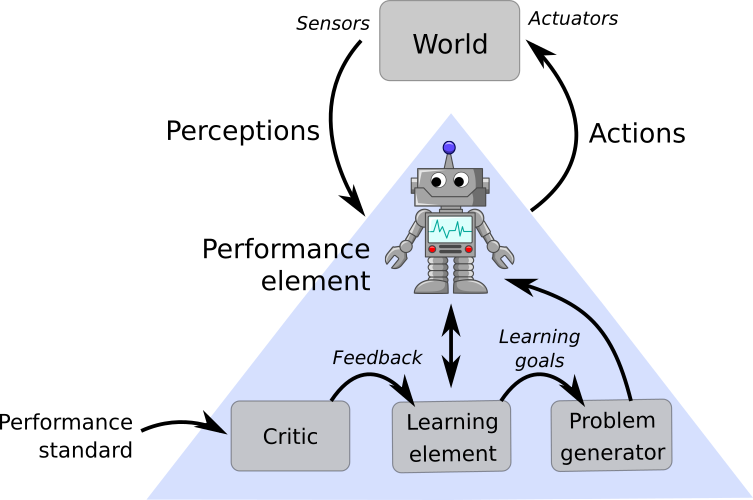
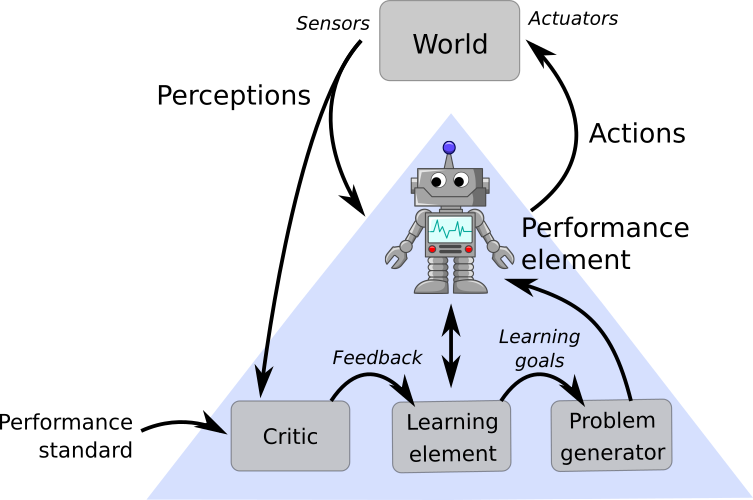
Update documentation

diff --git a/searchindex.js b/searchindex.js
@@ -1,1 +1,1 @@
-Search.setIndex({docnames:["ailibraries","aitools","bibliography","blockdiag","concepts","content","exercises","intelligent_agent","intro","machinelearninglibraries","manifestation","notebooks"],envversion:{"sphinx.domains.c":1,"sphinx.domains.changeset":1,"sphinx.domains.citation":1,"sphinx.domains.cpp":1,"sphinx.domains.index":1,"sphinx.domains.javascript":1,"sphinx.domains.math":2,"sphinx.domains.python":1,"sphinx.domains.rst":1,"sphinx.domains.std":1,sphinx:56},filenames:["ailibraries.md","aitools.md","bibliography.md","blockdiag.md","concepts.md","content.md","exercises.md","intelligent_agent.md","intro.md","machinelearninglibraries.md","manifestation.md","notebooks.ipynb"],objects:{},objnames:{},objtypes:{},terms:{"20th":4,"300px":[],"3rd":8,"500px":[],"\u00f6lksdfl\u00f6kasjsdlk":[],"\u00f6lksdlfk":[],"\u1e3fai":4,"break":4,"case":[3,4],"class":4,"default":[],"ensyclop\u00e6dia":4,"function":[3,4,10],"g\u00f6del":4,"import":[3,4,11],"k\u00e4yp\u00e4hoitosuositukset":3,"khw\u0101rizm\u012b":4,"lkjsdfkjsdl\u00f6kjs\u00f6klj":[],"long":4,"mit\u00e4":5,"new":[2,4],"noa\u1e25":[2,4],"public":2,"s\u00f6derj\u00e4rden":10,"short":[],"skljas\u00f6dlkj":[],"super":4,"t\u00e4h\u00e4n":5,"t\u00e4ll\u00e4":5,"t\u00e4llaisella":5,"t\u00e4m\u00e4":5,"teksti\u00e4":5,"true":[3,10],"try":[3,4],"v\u00e4h\u00e4n":5,"viel\u00e4":5,"while":4,AND:4,But:11,For:[4,10,11],GPS:[4,10],One:[3,4],The:[2,3,4,6],There:[4,8,11],These:4,Use:[5,8],a_1:5,a_2:5,aaron:[2,4,8],abil:4,abl:[3,4,8],about:[4,11],abov:3,acceler:4,accept:[],access:4,accord:[2,4],achiev:[4,10],acquir:10,act:4,action:[2,3,4,10],activ:[1,4,10],actual:4,actuat:4,acycl:3,ada:4,add:[],add_:11,addit:[3,4],afasia:3,affect:4,after:[4,8],again:[],agent:[1,5],agre:4,air:3,alan:4,alchemi:4,algorithm:[3,4,8,10],align:[5,11],all:[3,4,10],allow:4,alpha:3,alreadi:[4,10],also:[3,4,10,11],alwai:[2,3,4],amount:[4,10],amp:10,analyt:4,analyz:10,ancient:4,ani:4,anim:4,ann:4,anoth:[],answer:4,appar:10,appli:[4,10],applic:[3,4,8],approach:[2,3,4,8],arbitrari:4,area:4,argument:3,aristotel:3,aristotl:[3,4],arrai:11,arrow:3,artifact:4,artifici:[2,3,4,8,10],artitifici:4,asdf:[],asf:[],asia:5,ask:4,assess:4,associ:4,attribut:3,auditori:[],australia:[],autom:4,automat:10,autonom:4,avail:[4,10],avoid:4,awai:4,awkward:3,axes:11,axi:3,b_1:5,b_2:5,babbag:4,back:2,backward:3,balanc:10,base:3,basic:[2,4,8],batteri:10,bayesian:8,beauti:5,becaus:[3,4,10],been:[2,4,10],begin:[3,4,5,11],behalf:3,behav:4,behavior:4,behaviour:4,behind:4,being:4,beings:4,belief:[3,4],below:10,benefit:4,bengio:[2,4,8],best:4,between:[3,4],bib:[],bibliographi:[],bibtex:[],bigger:10,bird:3,blade:4,block:5,blockdiag:[],blokkia:5,book:[4,11],booklet:8,boost:4,both:[3,4],box:[],brain:4,breadth:3,brian:[],brief:[2,4],bring:4,brisban:[],britannica:4,broad:[5,8],bronz:4,brought:4,build:[3,4],built:[],bulli:10,c_1:5,c_2:5,calif:[],call:[3,4],cambridg:[],camera:[4,10],can:[3,4,10,11],capabl:4,capac:4,caption:[],car:[3,4],care:[3,4],carla:[3,10],carri:[3,4],categori:[5,8,10],caus:3,cbow:8,cell:[],center:3,centuri:4,certain:[3,4,10],chain:3,challeng:[5,8],chang:4,channel:10,characterist:4,charg:10,charl:4,check:11,chemistri:4,christoph:[],circul:3,cite:[],citi:4,claim:4,classif:10,classifi:10,clean:10,clear:[],cliff:[],climat:4,climb:3,clip:10,close:4,cluster:10,cmap:[3,11],code:6,cognit:[4,10],cold:11,collect:[5,8],collis:[4,10],color:[3,11],com:[2,4,5,10],combin:4,combinatori:3,comfreak:10,command:[],commerci:2,common:[3,4],commonli:4,commonmark:[],commun:4,compar:10,complet:[3,4,8],complex:[3,4,10],compon:4,compos:4,comput:[2,3,4,5,8],con:3,conceal:4,concept:[3,5,8],conclud:4,conclus:3,condit:3,confer:4,connect:[3,4],consequ:4,consid:4,consist:[3,4,10],construct:[4,8,10],consum:4,contain:[3,6,8,10],contemporari:4,content:[],continu:4,contrast:4,control:[4,10],conveni:4,convers:4,coolwarm:11,copeland:4,copi:4,corpor:4,correct:[3,4],cortex:[],could:[3,4,10],cours:8,courvil:[2,4,8],cover:[1,4],creat:[3,4,11],creation:4,criteria:4,critic:4,cross:4,crow:3,current:[3,4,10],custom_lin:11,cycl:3,cycler:11,cyclic:3,d_2:5,dag:3,dai:4,daniel:3,dark:[3,4,10],dartmouth:4,data:[3,4,8,10,11],dead:[4,10],deal:[4,10],decid:4,decis:[3,4,5,8],deckard:4,deep:[2,3,4,8],defin:[3,4,8],definit:[],delta:4,demand:4,demonstr:4,denser:10,depend:[],depth:3,describ:[3,4],deserv:10,desir:4,destin:4,detail:[2,4],deu:[2,4],develop:[8,10],diagnos:3,diagnosi:3,diagnost:3,diagram:5,dict:3,did:4,died:4,differ:[3,4,10],difficult:[3,4],difficulti:3,digit:4,digitalis:4,direct:[3,4],directli:[],diret:[],disconnect:3,discov:4,discuss:[],diseas:3,displai:4,distanc:4,divid:4,dmin:3,doc:[],docid:[2,4],document:11,doe:[3,4,10],doesn:[],doi:[2,4],dollar:11,domain:2,domian:[],doubl:3,download:2,draw:3,draw_networkx_edg:3,draw_networkx_nod:3,dream:4,drive:[3,4],driver:10,due:10,dure:4,e_2:5,each:[3,4,10],earli:4,earth:4,ebook:[2,4],ebookcentr:[2,4],ecosystem:[],edg:3,edit:[2,4,8],effect:4,effici:3,elect:5,electr:4,element:4,emb:11,embed:[4,8],emerg:4,enabl:4,encod:3,end:[3,4,5,11],endow:4,energi:10,engin:[3,4],englewood:[],entir:[],environ:[4,10],eqn:[],eqnarrai:3,equal:3,equat:5,escap:11,establish:4,estim:[4,10],etc:11,ether:4,ethic:[5,8],euclid:4,euler2:[],euler3:[],euler:5,european:10,evalut:10,even:4,ever:4,everydai:10,everyon:4,everyth:4,evid:10,evolv:[2,4],exactli:4,exampl:[1,3,4,6,10,11],exercis:6,exhaust:3,exist:6,expect:4,expediti:4,experi:4,expert:[3,8,10],explain:[4,8],explan:5,explicit:4,explos:3,express:3,extend:4,extens:[],extraterresti:4,eye:3,face:[3,4],fact:3,fake:[],falco:10,fall:8,fals:3,far:4,fast:4,fdgdfgdf:4,feel:10,few:6,fiction:4,field:[3,4,8,10],fig:[3,4,10,11],fig_soderfjarden_classifi:[],fig_soderfjarden_imag:[],fig_soderjrarden_classifi:[],fig_soderjrarden_imag:[],fight:4,figsiz:[3,11],figur:[3,10],file:2,find:[3,4,10],first:[3,4],fit:[3,4],five:[],fix:11,flavor:[],florenc:[2,4],fluid:4,follow:[3,4],font_weight:3,footnot:5,forc:4,forest:[3,10],forget:4,form:4,formal:4,formula:5,forward:3,found:4,foundat:[],four:4,frac:4,frame:3,framework:[3,4],franci:[2,4],francisco:[],frankenstein:4,frankestein:4,free:2,frequent:4,from:[2,3,4,10,11],from_pixabai:[],front:4,frontier:[],fslkfj:[],fuel:4,fundament:[4,5,8],further:4,gain:4,game:[5,8],gather:[3,5],gener:4,genet:[2,4],get:[],get_node_attribut:3,giant:4,given:4,god:4,good:[3,4],goodfellow:[2,4,8],googl:5,gram:8,graph:1,grass:10,great:4,greater:3,greedi:3,greek:[3,4],group:[2,4,8],guid:11,guidelin:3,had:[4,10],hai:10,hall:[],hand:3,happen:4,har17:[2,4],harari:[2,4],harari_homo_2017:[],hard:4,harder:[],hardwar:4,harlow:[2,4],harrison:3,has:[3,4,10],have:[2,3,4,10],hdhpk14:[],hea18:[2,4,8],heart:4,heaton:[2,4],heaton_ian_2018:[],heer:[],help:4,here:[4,11],heurist:3,hidden:[],hide:[],high:[3,10],higher:[4,10],highlight:[],hill:3,him:4,his:4,histor:[],histori:2,holdgraf:[],holdgraf_evidence_2014:[],homo:[2,4],hot:11,hour:8,how:4,html:11,http:[2,4,5,10],huge:10,huma:[],human:[3,4,10],humanli:4,humanoid:4,hunt:4,hypothesi:3,ian:[2,4,8],icat1100:8,ichor:4,idea:4,ident:5,imag:[3,4,10,11],implement:[1,4,5,6,10],imposs:3,improv:4,includ:[4,10,11],increas:3,independ:4,indistinguish:4,individu:2,infer:[1,3,4,5,8],influenc:4,inform:[4,10,11],ingredi:[],init:[],initi:[4,6],inlin:5,input:4,insert:[],insid:[],instead:[4,10],instructor:8,intellectu:4,intellig:[1,2,5,8,10],intepret:[],interact:[4,11],interest:[4,10],intern:4,internat:[2,4],interpret:4,intro:[],introduc:[1,6],introduct:[3,5,6],involv:3,ion:11,ipynb:[],ipython3:[],isbn:[2,4],isol:3,its:[3,4,10],itself:4,jaha:5,jatkuu:5,jeff:[2,4],jksklfj:[],joint:10,joka:5,jpg:[],june:[2,4],jupyt:[6,8,11],jupytext:[],kaava:[],kaavagath:[],kaavat:5,kaavoja:5,kan:5,kaufmann:[],keep:[10,11],kei:[3,5],kera:8,kernel:[],kevin:[2,4],kind:[3,4],kirjoitetaan:5,knight:[],know:[3,4],knowledg:[4,8],known:3,kokeillaan:5,kurt:4,kuva:5,la_:11,label:[],lainauksella:5,laittaa:5,land:10,lane:4,languag:[3,4,5,8],larg:3,larger:10,last:4,later:3,law:4,lawn:10,lead:4,learn:[1,2,5],learnin:[2,4],least:4,lectur:8,left:4,legend:11,length:3,less:[],let:4,level:[4,10],lib:[2,4],librari:5,life:4,ligenc:[2,4],light:4,like:[3,4,10],line2d:11,line:[3,4,6,11],linspac:11,list:[3,8],locat:[4,10],logic:[4,8],logspac:11,london:[2,4],look:10,loop:3,loppui:5,loss:4,lot:[3,4,11],lovelac:4,low:3,luontoportti:3,machien:4,machin:[1,2,3,4,5,8,10],machineri:[2,4],mackworth:[],made:[3,4],magic:4,mai:[3,4,10],make:[3,4,5,8,10,11],man:4,manag:8,mani:[2,3,4,10],manifest:[4,5,8],map:[4,10],markedli:[],markov:3,markup:[],matematician:4,materi:[],math:11,mathemat:[3,4,5,8],mathrm:3,mathtt:[],matplotlib:[3,11],maxim:4,mbox:[4,11],mean:[1,4,11],meaning:4,meaningfulli:4,measur:[4,10],mechan:4,media:4,medic:3,medium:11,meet:4,memori:4,metadata:[],method:10,micro:4,mighti:4,mimic:[4,10],mimick:4,mind:[2,4],mine:[5,8],minim:4,mit:8,model:[3,10],modern:[2,4,8],monel:5,monikap:10,monster:4,more:[4,10,11],moreoev:[],most:[3,5,6],motion:4,movement_observ:4,movi:4,much:[3,10],multigraph:[],music:4,must:[],mydirectivenam:[],myth:[],mythic:4,mytholog:4,name:4,natur:[4,5,8],nausea:3,navig:10,nbsp:[],ncenter:3,necessari:4,necessarili:4,need:[1,3,4,10],neg:4,neither:4,net:[],network:[3,4],networkx:3,neural:[3,4],neuron:4,neurosci:[],newton:4,next:4,nlp:[4,8],node:3,node_color:3,node_s:3,nodelist:3,normal:[3,10],norvig:[2,4,8],notat:3,note:[5,8],notebook:6,now:10,number:[3,4],numpi:11,numref:[],nyt:5,object:3,observ:[3,4],obstacl:10,ockham:4,oclc:[2,4],off:3,often:[3,4],oikea:5,old:4,ollenkaan:5,onc:[],one:[3,4,5],onli:[3,4,6],oper:[4,10],opinion:4,opportun:[5,8],opposit:3,optim:[4,10],optimis:3,option:4,orang:[3,8],org:[2,4],orient:3,origin:10,osoitteessa:5,other:[3,4],otherwis:[3,4],our:4,out:[3,4,11],outcom:4,outdoor:4,output:[],over:4,overal:4,own:4,page:[],paliotta:3,panda:[],paralysi:3,part:[3,8],partial:4,partli:4,paslei:[],pass:4,past:4,path:[3,4,10],pattern:3,patterson:[],pearl:[],pearson:[2,4,8],pecept:4,perceiv:[3,4],percept:[3,4,10],perceptron:4,perform:[4,10],perhap:10,person:[3,4,10],peter:[2,4,8],phd:4,philosoph:[3,4],physic:[4,10],pixabai:[2,10],pixel:10,plan:[1,3,4,10],planet:4,plausibl:[],plenti:[3,4],plot:11,plt:[3,11],point:[],polygon:10,pool:[],pos:3,posit:[3,10],possibl:[3,10],post:11,potenti:4,power:[3,4],practic:3,pre:[],predict:[3,4],premis:3,prentic:[],preprocss:[],present:4,press:8,pretti:[],print:5,probabilist:[],probabl:[3,4,8],problem:[1,3,4,6,8],proce:[],process:[4,5,8],produc:[3,4],program:[1,2,3,4,6,8],project:[4,8],prop_cycl:11,properli:[],properti:3,propos:[3,4],proposit:[3,8],proquest:[2,4],proven:4,provid:[3,4,10],proxim:10,publicdomainfil:[],purpos:[4,8,10],pursu:4,pyplot:[3,11],python:[3,5],pythonprogram:[],queri:3,question:4,quit:[4,10],quizz:8,rachel:4,radar:[4,10],radic:4,ramsai:[],randn:11,random:11,random_geometric_graph:3,random_tre:3,rang:11,rapidli:4,rare:3,ration:[3,4],rcparam:11,reach:4,react:4,reactiv:4,real:[3,4],realiz:4,realli:4,reason:[4,5],recent:4,reckon:10,recogn:[3,4,8],recognit:3,recommend:2,record:3,reds_r:3,reduc:[3,4],ref:[],refer:[],referenc:2,region:10,regular:[],reinforc:3,rel:[],relat:[3,4,8],relationship:3,relev:6,remov:4,render:[],repeat:10,replic:4,repres:[3,10],represent:8,reproduc:11,requir:[2,4,10],research:4,resolut:3,resolv:3,resourc:[3,4],rest:10,result:10,rev:[],review:8,revis:[2,4],rgb:10,right:[4,10],rightarrow:3,risk:10,rivil:5,rn14:[2,4,8],road:4,robert:[],robot:[4,8],robot_woman:[],robust:[],rolenam:[],routin:10,rule:[3,4],run:[],runner:4,russel:[2,4,8],russell_artificial_2014:[],s10710:[2,4],saf:[],said:[3,4],same:[4,10],sampl:11,san:[],sapien:4,satellit:10,scene:4,scienc:4,scientif:[],scientist:4,scikit:8,sculptur:4,sdf:[],seagul:3,search:[4,8,10],second:4,section:[1,3],see:[4,11],seed:11,seem:[4,10],seemingli:4,seen:[3,10],select:[2,4],self:3,semant:[3,4],semest:8,sens:4,sensor:[4,10],sentinel:10,separ:4,sequenc:4,seriou:4,serious:10,serv:[],set:3,sever:1,show:3,shown:[3,10],side:[3,4],sign:11,signal:[],similar:[4,10],simpl:[1,3,5,10],simplest:3,simpli:[3,4],simul:10,sinc:4,single_source_shortest_path_length:3,situat:4,sivulla:5,size:3,skip:8,sldkjflksd:[],slight:[],slower:4,small:[],smaller:4,social:4,societ:8,societi:4,softwar:[4,8],soil:10,solut:[3,4,8,10],solv:[1,3,4,6,8],some:[3,4,5,11],someon:[],someth:4,sometim:4,somewhat:4,sophist:[4,10],sophisticaion:[],space:4,span:[],speak:3,speci:[3,4],specif:[3,8],specul:4,speed:[4,10],spend:4,sphinx:[],spoken:4,spyder:8,stackabus:[],stai:4,stand:[],start:[4,10],state:[2,4,10,11],statement:3,station:10,statist:4,steer:[4,10],step:4,still:[3,4],stop:[4,10],store:3,stori:4,strategi:8,street:4,strive:4,stroke:3,structur:[3,4,8],stuart:[2,4,8],student:[6,8],studi:4,subplot:11,suggest:8,superior:4,superpow:3,supervis:10,support:3,suppos:3,sure:11,swallow:3,swim:3,syllog:3,symbol:4,symmetr:4,symptom:3,synonym:4,syntax:[],synthes:4,system:[3,4,8],tabl:[3,10],tactic:10,tag:[],take:[4,10],taken:[4,10],talo:4,target:4,task:[4,10],taxi:4,taylor:[2,4],tbl:[],techniqu:8,technolog:4,teksti:5,tend:[],term:4,test:4,tex:11,text:[4,5,8],than:[4,10],thei:[2,3,4,10],them:4,theme:5,theoret:4,theori:[1,5,8],therefor:[3,4,10],thi:[1,3,4,5,8,10,11],think:[3,4,8,10],those:[4,8],though:[3,4],thought:4,thousand:4,through:[4,10],throughout:8,tia:3,time:4,tip:[],titl:5,titlesonli:[],toctre:[],todai:4,togeth:[],tomorrow:[2,4],too:[3,4,10],tool:[4,5,8],touch:[],tradit:3,traffic:10,train:[4,10],tree:3,treegraph:[],tri:[4,10],trick:10,tritonia:[2,4],troubl:4,truli:4,truth:4,tule:5,tullut:5,tur50:[2,4],ture:[2,4],turn:4,tutori:3,two:4,type:10,tyrel:4,uncertainti:[3,4,5],understand:4,undirect:3,unfeas:3,unidirect:3,unit:[2,4],univers:[],unknown:4,unnecessari:4,unsupervis:10,until:4,url:[2,4],use:[2,3,4,10],used:[2,3,4],useful:[4,10],uses:[3,4],using:[1,3,4,10],usual:4,util:[],uva:5,v_o:4,v_s:4,vaan:5,vaasan:5,valid:[],valu:3,variabl:4,variat:[],variou:8,vast:4,vehicl:4,veloc:[4,10],veri:[3,4],vertebr:4,vertic:3,video:10,vintag:[2,4],vision:[3,4,5,8,10],visualis:10,voltag:10,wai:4,walk:10,want:11,war11:[2,4],war:4,warwick:[2,4],warwick_artificial_2011:[],watch:[4,10],water:[3,10],wavelenght:10,webbilinkki:5,wedg:3,well:[4,10,11],wendi:[],were:[3,4],what:[4,8,10],wheel:4,when:[3,4,10],where:3,wherea:3,whether:[],which:[3,4,6,10],white:[3,4],why:4,width:[],wiki:[],wikipedia:4,william:4,wing:3,wise:4,with_label:3,without:4,won:4,word:[4,8],wordbook:4,work:[3,6,8,10,11],workflow:8,world:[3,4,10],worth:4,would:[3,4,10],wouldn:10,wrap:5,write:[],written:4,www:[5,10],xlim:3,y3rihnk0_n:10,year:4,yksi:5,ylim:3,yliopisto:5,york:[],yoshua:[2,4,8],you:[10,11],your:11,youtub:10,yuval:[2,4],yval:4},titles:["Use of AI libraries","Introduction to AI tools","Bibliography","Block diagram of AI","Concepts of AI","Contents of the course","Excercises","Implementing a simple intelligent agent","introduction","Libraries for machine learning","Manifestation of AI","Content with notebooks"],titleterms:{Adding:[],The:10,Use:0,Using:[],agent:[4,7],artifici:[],asses:8,autom:10,base:4,bibliographi:[2,4],block:[3,10,11],book:[],build:10,car:10,challeng:[],chang:10,citat:[],classic:3,cleaner:10,climat:10,code:11,concept:4,content:[5,8,11],cours:5,databas:3,definit:4,develop:4,diagnosi:10,diagram:3,direct:[],discuss:[4,10],drive:10,driver:4,earth:10,electr:10,excercis:[4,6],execut:[],fake:10,file:[],from:[],goal:[4,8],graph:3,hierarch:4,histor:4,histori:4,humankind:4,humanoid:10,imag:2,implement:[7,8],ingredi:4,intellig:[4,7],introduct:[1,8],jupyt:[],kei:4,knowledg:3,lanmow:[],lawnmow:10,learn:[3,4,8,9],librari:[0,9],logic:3,machin:9,manifest:10,markdown:11,materi:8,medic:10,method:[3,4],model:4,more:3,myst:11,myth:4,name:[],network:10,notebook:11,observ:10,opportun:[],output:11,point:[4,10],potenti:10,propabl:3,question:[],read:3,reflex:4,represent:3,robot:10,role:[],scientif:4,search:3,self:10,simpl:[4,7],some:10,spot:10,tackl:10,taulu1:[],techniqu:[],tool:1,util:4,vacuum:10,what:[],your:[]}})
+Search.setIndex({docnames:["ailibraries","aitools","bibliography","blockdiag","concepts","content","exercises","intelligent_agent","intro","machinelearninglibraries","manifestation","notebooks"],envversion:{"sphinx.domains.c":1,"sphinx.domains.changeset":1,"sphinx.domains.citation":1,"sphinx.domains.cpp":1,"sphinx.domains.index":1,"sphinx.domains.javascript":1,"sphinx.domains.math":2,"sphinx.domains.python":1,"sphinx.domains.rst":1,"sphinx.domains.std":1,sphinx:56},filenames:["ailibraries.md","aitools.md","bibliography.md","blockdiag.md","concepts.md","content.md","exercises.md","intelligent_agent.md","intro.md","machinelearninglibraries.md","manifestation.md","notebooks.ipynb"],objects:{},objnames:{},objtypes:{},terms:{"20th":4,"300px":[],"3rd":8,"500px":[],"\u00f6lksdfl\u00f6kasjsdlk":[],"\u00f6lksdlfk":[],"\u1e3fai":4,"break":4,"case":[3,4],"class":4,"default":[],"ensyclop\u00e6dia":4,"function":[3,4,10],"g\u00f6del":4,"import":[3,4,11],"k\u00e4yp\u00e4hoitosuositukset":3,"khw\u0101rizm\u012b":4,"lkjsdfkjsdl\u00f6kjs\u00f6klj":[],"long":4,"mit\u00e4":5,"new":[2,4],"noa\u1e25":[2,4],"public":2,"s\u00f6derj\u00e4rden":10,"short":[],"skljas\u00f6dlkj":[],"super":4,"t\u00e4h\u00e4n":5,"t\u00e4ll\u00e4":5,"t\u00e4llaisella":5,"t\u00e4m\u00e4":5,"teksti\u00e4":5,"true":[3,10],"try":[3,4],"v\u00e4h\u00e4n":5,"viel\u00e4":5,"while":4,AND:4,But:11,For:[4,10,11],GPS:[4,10],One:[3,4],The:[2,3,4,6],There:[4,8,11],These:4,Use:[5,8],a_1:5,a_2:5,aaron:[2,4,8],abil:4,abl:[3,4,8],about:[4,11],abov:3,acceler:4,accept:[],access:4,accord:[2,4],achiev:[4,10],acquir:10,act:4,action:[2,3,4,10],activ:[1,4,10],actual:4,actuat:4,acycl:3,ada:4,add:[],add_:11,adding:4,addit:[3,4],afasia:3,affect:4,after:[4,8],again:[],agent:[1,5],agre:4,air:3,alan:4,alchemi:4,algorithm:[3,4,8,10],align:[5,11],all:[3,4,10],allow:4,alpha:3,alreadi:[4,10],also:[3,4,10,11],alwai:[2,3,4],amount:[4,10],amp:10,analyt:4,analyz:10,ancient:4,ani:4,anim:4,ann:4,anoth:4,answer:4,appar:10,appli:[4,10],applic:[3,4,8],approach:[2,3,4,8],arbitrari:4,area:4,ares:4,argument:3,aristotel:3,aristotl:[3,4],arrai:11,arrow:3,artifact:4,artifici:[2,3,4,8,10],artitifici:4,asdf:[],asf:[],asia:5,ask:4,assess:4,associ:4,attribut:3,auditori:[],australia:[],autom:4,automat:10,autonom:4,avail:[4,10],avoid:4,awai:4,awkward:3,axes:11,axi:3,b_1:5,b_2:5,babbag:4,back:2,backward:3,balanc:10,base:3,basic:[2,4,8],batteri:10,bayesian:8,beauti:5,becaus:[3,4,10],been:[2,4,10],begin:[3,4,5,11],behalf:3,behav:4,behavior:4,behaviour:4,behind:4,being:4,beings:4,belief:[3,4],below:10,benefit:4,bengio:[2,4,8],best:4,better:4,between:[3,4],bib:[],bibliographi:[],bibtex:[],bigger:10,bird:3,blade:4,block:5,blockdiag:[],blokkia:5,book:[4,11],booklet:8,boost:4,both:[3,4],box:[],brain:4,breadth:3,brian:[],brief:[2,4],bring:4,brisban:[],britannica:4,broad:[5,8],bronz:4,brought:4,build:[3,4],built:[],bulli:10,c_1:5,c_2:5,calif:[],call:[3,4],cambridg:[],camera:[4,10],can:[3,4,10,11],capabl:4,capac:4,caption:[],car:[3,4],care:[3,4],carla:[3,10],carri:[3,4],categori:[5,8,10],caus:3,cbow:8,cell:[],center:3,centuri:4,certain:[3,4,10],chain:3,challeng:[5,8],chang:4,channel:10,characterist:4,charg:10,charl:4,check:11,chemistri:4,christoph:[],circul:3,cite:[],citi:4,citic:4,claim:4,classif:10,classifi:10,clean:10,clear:[],cliff:[],climat:4,climb:3,clip:10,close:4,cluster:10,cmap:[3,11],code:6,cognit:[4,10],cold:11,collect:[5,8],collis:[4,10],color:[3,11],com:[2,4,5,10],combin:4,combinatori:3,comfreak:10,command:[],commerci:2,common:[3,4],commonli:4,commonmark:[],commun:4,compar:10,complet:[3,4,8],complex:[3,4,10],compon:4,compos:4,comput:[2,3,4,5,8],con:3,conceal:4,concept:[3,5,8],conclud:4,conclus:3,condit:3,confer:4,connect:[3,4],consequ:4,consid:4,consist:[3,4,10],construct:[4,8,10],consum:4,contain:[3,6,8,10],contemporari:4,content:[],continu:4,contrast:4,control:[4,10],conveni:4,convers:4,coolwarm:11,copeland:4,copi:4,corpor:4,correct:[3,4],cortex:[],could:[3,4,10],cours:8,courvil:[2,4,8],cover:[1,4],creat:[3,4,11],creation:4,criteria:4,critic:4,cross:4,crow:3,current:[3,4,10],custom_lin:11,cycl:3,cycler:11,cyclic:3,d_2:5,dag:3,dai:4,daniel:3,dark:[3,4,10],dartmouth:4,data:[3,4,8,10,11],dead:[4,10],deal:[4,10],decid:4,decis:[3,4,5,8],deckard:4,deep:[2,3,4,8],defin:[3,4,8],definit:[],delta:4,demand:4,demonstr:4,denser:10,depend:[],depth:3,describ:[3,4],deserv:10,desir:4,destin:4,detail:[2,4],deu:[2,4],develop:[8,10],diagnos:3,diagnosi:3,diagnost:3,diagram:5,dict:3,did:4,died:4,differ:[3,4,10],difficult:[3,4],difficulti:3,digit:4,digitalis:4,direct:[3,4],directli:[],diret:[],disconnect:3,discov:4,discuss:[],diseas:3,displai:4,distanc:4,divid:4,dmin:3,doc:[],docid:[2,4],document:11,doe:[3,4,10],doesn:[],doi:[2,4],dollar:11,domain:2,domian:[],doubl:3,download:2,draw:3,draw_networkx_edg:3,draw_networkx_nod:3,dream:4,drive:[3,4],driver:10,due:10,dure:4,e_2:5,each:[3,4,10],earli:4,earth:4,ebook:[2,4],ebookcentr:[2,4],ecosystem:[],edg:3,edit:[2,4,8],effect:4,effici:3,elect:5,electr:4,element:4,emb:11,embed:[4,8],emerg:4,enabl:4,encod:3,end:[3,4,5,11],endow:4,energi:10,engin:[3,4],englewood:[],entir:[],environ:[4,10],eqn:[],eqnarrai:3,equal:3,equat:5,escap:11,establish:4,estim:[4,10],etc:11,ether:4,ethic:[5,8],euclid:4,euler2:[],euler3:[],euler:5,european:10,evalut:10,even:4,ever:4,everydai:10,everyon:4,everyth:4,evid:10,evolv:[2,4],exactli:4,exampl:[1,3,4,6,10,11],exercis:6,exhang:4,exhaust:3,exist:6,expect:4,expediti:4,experi:4,expert:[3,8,10],explain:[4,8],explan:5,explicit:4,explor:4,exploratori:4,explos:3,express:3,extend:4,extens:[],extraterresti:4,eye:3,face:[3,4],fact:3,fake:[],falco:10,fall:8,fals:3,far:4,fast:4,fdgdfgdf:4,feedback:4,feel:10,few:6,fiction:4,field:[3,4,8,10],fig:[3,4,10,11],fig_soderfjarden_classifi:[],fig_soderfjarden_imag:[],fig_soderjrarden_classifi:[],fig_soderjrarden_imag:[],fight:4,figsiz:[3,11],figur:[3,10],file:2,find:[3,4,10],first:[3,4],fit:[3,4],five:[],fix:11,flavor:[],florenc:[2,4],fluid:4,follow:[3,4],font_weight:3,footnot:5,forc:4,forest:[3,10],forget:4,form:4,formal:4,formula:5,forward:3,found:4,foundat:[],four:4,frac:4,frame:3,framework:[3,4],franci:[2,4],francisco:[],frankenstein:4,frankestein:4,free:2,frequent:4,from:[2,3,4,10,11],from_pixabai:[],front:4,frontier:[],fslkfj:[],fuel:4,fundament:[4,5,8],further:4,gain:4,game:[5,8],gather:[3,5],gener:4,genet:[2,4],get:[],get_node_attribut:3,giant:4,given:4,god:4,good:[3,4],goodfellow:[2,4,8],googl:5,gram:8,graph:1,grass:10,great:4,greater:3,greedi:3,greek:[3,4],group:[2,4,8],guid:11,guidelin:3,had:[4,10],hai:10,hall:[],hand:3,happen:4,har17:[2,4],harari:[2,4],harari_homo_2017:[],hard:4,harder:[],hardwar:4,harlow:[2,4],harrison:3,has:[3,4,10],have:[2,3,4,10],hdhpk14:[],hea18:[2,4,8],heart:4,heaton:[2,4],heaton_ian_2018:[],heer:[],help:4,here:[4,11],heurist:3,hidden:[],hide:[],high:[3,10],higher:[4,10],highlight:[],hill:3,him:4,his:4,histor:[],histori:2,holdgraf:[],holdgraf_evidence_2014:[],homo:[2,4],hot:11,hour:8,how:4,html:11,http:[2,4,5,10],huge:10,huma:[],human:[3,4,10],humanli:4,humanoid:4,hunt:4,hypothesi:3,ian:[2,4,8],icat1100:8,ichor:4,idea:4,ident:5,imag:[3,4,10,11],implement:[1,4,5,6,10],imposs:3,improv:4,includ:[4,10,11],increas:3,independ:4,indistinguish:4,individu:2,infer:[1,3,4,5,8],influenc:4,inform:[4,10,11],ingredi:[],init:[],initi:[4,6],inlin:5,input:4,insert:[],insid:[],instead:[4,10],instructor:8,intellectu:4,intellig:[1,2,5,8,10],intepret:[],interact:[4,11],interest:[4,10],intern:4,internat:[2,4],interpret:4,intro:[],introduc:[1,6],introduct:[3,5,6],involv:3,ion:11,ipynb:[],ipython3:[],isbn:[2,4],isol:3,its:[3,4,10],itself:4,jaha:5,jatkuu:5,jeff:[2,4],jksklfj:[],joint:10,joka:5,jpg:[],june:[2,4],jupyt:[6,8,11],jupytext:[],kaava:[],kaavagath:[],kaavat:5,kaavoja:5,kan:5,kaufmann:[],keep:[10,11],kei:[3,5],kera:8,kernel:[],kevin:[2,4],kind:[3,4],kirjoitetaan:5,knight:[],know:[3,4],knowledg:[4,8],known:3,kokeillaan:5,kurt:4,kuva:5,la_:11,label:[],lainauksella:5,laittaa:5,land:10,lane:4,languag:[3,4,5,8],larg:3,larger:10,last:4,later:3,law:4,lawn:10,lead:4,learn:[1,2,5],learnin:[2,4],least:4,lectur:8,left:4,legend:11,length:3,less:[],let:4,level:[4,10],lib:[2,4],librari:5,life:4,ligenc:[2,4],light:4,like:[3,4,10],line2d:11,line:[3,4,6,11],linspac:11,list:[3,8],locat:[4,10],logic:[4,8],logspac:11,london:[2,4],look:10,loop:3,loppui:5,loss:4,lot:[3,4,11],lovelac:4,low:3,luontoportti:3,machien:4,machin:[1,2,3,4,5,8,10],machineri:[2,4],mackworth:[],made:[3,4],magic:4,mai:[3,4,10],make:[3,4,5,8,10,11],man:4,manag:8,mani:[2,3,4,10],manifest:[4,5,8],map:[4,10],markedli:[],markov:3,markup:[],matematician:4,materi:[],math:11,mathemat:[3,4,5,8],mathrm:3,mathtt:[],matplotlib:[3,11],maxim:4,mbox:[4,11],mean:[1,4,11],meaning:4,meaningfulli:4,measur:[4,10],mechan:4,media:4,medic:3,medium:11,meet:4,memori:4,metadata:[],method:10,micro:4,mighti:4,mimic:[4,10],mimick:4,mind:[2,4],mine:[5,8],minim:4,mit:8,model:[3,10],modern:[2,4,8],monel:5,monikap:10,monster:4,more:[4,10,11],moreoev:[],most:[3,5,6],motion:4,movement_observ:4,movi:4,much:[3,10],multigraph:[],music:4,must:[],mydirectivenam:[],myth:[],mythic:4,mytholog:4,name:4,natur:[4,5,8],nausea:3,navig:10,nbsp:[],ncenter:3,necessari:4,necessarili:4,need:[1,3,4,10],neg:4,neither:4,net:[],network:[3,4],networkx:3,neural:[3,4],neuron:4,neurosci:[],newton:4,next:4,nlp:[4,8],node:3,node_color:3,node_s:3,nodelist:3,normal:[3,10],norvig:[2,4,8],notat:3,note:[5,8],notebook:6,now:10,number:[3,4],numpi:11,numref:[],nyt:5,object:3,observ:[3,4],obstacl:10,ockham:4,oclc:[2,4],off:3,often:[3,4],oikea:5,old:4,ollenkaan:5,onc:[],one:[3,4,5],onli:[3,4,6],oper:[4,10],opinion:4,opportun:[5,8],opposit:3,optim:[4,10],optimis:3,option:4,orang:[3,8],org:[2,4],orient:3,origin:10,osoitteessa:5,other:[3,4],otherwis:[3,4],our:4,out:[3,4,11],outcom:4,outdoor:4,output:[],over:4,overal:4,own:4,page:[],paliotta:3,panda:[],paralysi:3,part:[3,8],partial:4,partli:4,paslei:[],pass:4,past:4,path:[3,4,10],pattern:3,patterson:[],pearl:[],pearson:[2,4,8],pecept:4,perceiv:[3,4],percept:[3,4,10],perceptron:4,perform:[4,10],perhap:10,person:[3,4,10],peter:[2,4,8],phd:4,philosoph:[3,4],physic:[4,10],pixabai:[2,10],pixel:10,plan:[1,3,4,10],planet:4,plausibl:[],plenti:[3,4],plot:11,plt:[3,11],point:[],polygon:10,pool:[],pos:3,posit:[3,10],possibl:[3,10],post:11,potenti:4,power:[3,4],practic:3,pre:[],predict:[3,4],premis:3,prentic:[],preprocss:[],present:4,press:8,pretti:[],previou:4,previous:4,print:5,probabilist:[],probabl:[3,4,8],problem:[1,3,4,6,8],proce:[],process:[4,5,8],produc:[3,4],program:[1,2,3,4,6,8],project:[4,8],prop_cycl:11,properli:[],properti:3,propos:[3,4],proposit:[3,8],proquest:[2,4],proven:4,provid:[3,4,10],proxim:10,publicdomainfil:[],purpos:[4,8,10],pursu:4,pyplot:[3,11],python:[3,5],pythonprogram:[],queri:3,question:4,quit:[4,10],quizz:8,rachel:4,radar:[4,10],radic:4,ramsai:[],randn:11,random:11,random_geometric_graph:3,random_tre:3,rang:11,rapidli:4,rare:3,ration:[3,4],rcparam:11,reach:4,react:4,reactiv:4,real:[3,4],realiz:4,realli:4,reason:[4,5],receiv:4,recent:4,reckon:10,recogn:[3,4,8],recognit:3,recommend:2,record:3,reds_r:3,reduc:[3,4],ref:[],refer:[],referenc:2,region:10,regular:[],reinforc:3,rel:[],relat:[3,4,8],relationship:3,relev:6,remov:4,render:[],repeat:10,replic:4,repres:[3,10],represent:8,reproduc:11,requir:[2,4,10],research:4,resolut:3,resolv:3,resourc:[3,4],respons:4,rest:10,result:10,rev:[],review:8,revis:[2,4],rgb:10,right:[4,10],rightarrow:3,risk:10,rivil:5,rn14:[2,4,8],road:4,robert:[],robot:[4,8],robot_woman:[],robust:[],rolenam:[],routin:10,rule:[3,4],run:4,runner:4,russel:[2,4,8],russell_artificial_2014:[],s10710:[2,4],saf:[],said:[3,4],same:[4,10],sampl:11,san:[],sapien:4,satellit:10,scene:4,scienc:4,scientif:[],scientist:4,scikit:8,sculptur:4,sdf:[],seagul:3,search:[4,8,10],second:4,section:[1,3],see:[4,11],seed:11,seem:[4,10],seemingli:4,seen:[3,10],select:[2,4],self:3,semant:[3,4],semest:8,sens:4,sensor:[4,10],sentinel:10,separ:4,sequenc:4,seriou:4,serious:10,serv:[],set:[3,4],sever:1,show:3,shown:[3,10],side:[3,4],sign:11,signal:[],similar:[4,10],simpl:[1,3,5,10],simplest:3,simpli:[3,4],simul:10,sinc:4,single_source_shortest_path_length:3,situat:4,sivulla:5,size:3,skip:8,sldkjflksd:[],slight:[],slower:4,small:[],smaller:4,social:4,societ:8,societi:4,softwar:[4,8],soil:10,solut:[3,4,8,10],solv:[1,3,4,6,8],some:[3,4,5,11],someon:[],someth:4,sometim:4,somewhat:4,sophist:[4,10],sophisticaion:[],space:4,span:[],speak:3,speci:[3,4],specif:[3,8],specul:4,speed:[4,10],spend:4,sphinx:[],spoken:4,spyder:8,stackabus:[],stai:4,stand:[],standard:4,start:[4,10],state:[2,4,10,11],statement:3,station:10,statist:4,steer:[4,10],step:4,still:[3,4],stop:[4,10],store:3,stori:4,strategi:8,street:4,strive:4,stroke:3,structur:[3,4,8],stuart:[2,4,8],student:[6,8],studi:4,subplot:11,suggest:[4,8],superior:4,superpow:3,supervis:10,support:3,suppos:3,sure:11,swallow:3,swim:3,syllog:3,symbol:4,symmetr:4,symptom:3,synonym:4,syntax:[],synthes:4,system:[3,4,8],tabl:[3,10],tactic:10,tag:[],take:[4,10],taken:[4,10],talo:4,target:4,task:[4,10],taxi:4,taylor:[2,4],tbl:[],techniqu:8,technolog:4,teksti:5,tend:[],term:4,test:4,tex:11,text:[4,5,8],than:[4,10],thei:[2,3,4,10],them:4,theme:5,theoret:4,theori:[1,5,8],therefor:[3,4,10],thi:[1,3,4,5,8,10,11],think:[3,4,8,10],those:[4,8],though:[3,4],thought:4,thousand:4,through:[4,10],throughout:8,tia:3,time:4,tip:[],titl:5,titlesonli:[],toctre:[],todai:4,togeth:[],tomorrow:[2,4],too:[3,4,10],tool:[4,5,8],touch:[],tradit:3,traffic:10,train:[4,10],tree:3,treegraph:[],tri:[4,10],trick:10,tritonia:[2,4],troubl:4,truli:4,truth:4,tule:5,tullut:5,tur50:[2,4],ture:[2,4],turn:4,tutori:3,two:4,type:10,tyrel:4,uncertainti:[3,4,5],understand:4,undirect:3,unfeas:3,unidirect:3,unit:[2,4],univers:[],unknown:4,unnecessari:4,unsupervis:10,until:4,updat:4,url:[2,4],use:[2,3,4,10],used:[2,3,4],useful:[4,10],uses:[3,4],using:[1,3,4,10],usual:4,util:[],uva:5,v_o:4,v_s:4,vaan:5,vaasan:5,valid:[],valu:3,variabl:4,variat:[],variou:8,vast:4,vehicl:4,veloc:[4,10],veri:[3,4],vertebr:4,vertic:3,video:10,vintag:[2,4],vision:[3,4,5,8,10],visualis:10,voltag:10,wai:4,walk:10,want:11,war11:[2,4],war:4,warwick:[2,4],warwick_artificial_2011:[],watch:[4,10],water:[3,10],wavelenght:10,webbilinkki:5,wedg:3,well:[4,10,11],wendi:[],were:[3,4],what:[4,8,10],wheel:4,when:[3,4,10],where:3,wherea:3,whether:[],which:[3,4,6,10],white:[3,4],why:4,width:[],wiki:[],wikipedia:4,william:4,wing:3,wise:4,with_label:3,without:4,won:4,word:[4,8],wordbook:4,work:[3,6,8,10,11],workflow:8,world:[3,4,10],worth:4,would:[3,4,10],wouldn:10,wrap:5,write:[],written:4,www:[5,10],xlim:3,y3rihnk0_n:10,year:4,yksi:5,ylim:3,yliopisto:5,york:[],yoshua:[2,4,8],you:[10,11],your:11,youtub:10,yuval:[2,4],yval:4},titles:["Use of AI libraries","Introduction to AI tools","Bibliography","Block diagram of AI","Concepts of AI","Contents of the course","Excercises","Implementing a simple intelligent agent","introduction","Libraries for machine learning","Manifestation of AI","Content with notebooks"],titleterms:{Adding:[],The:10,Use:0,Using:[],agent:[4,7],artifici:[],asses:8,autom:10,base:4,bibliographi:[2,4],block:[3,10,11],book:[],build:10,car:10,challeng:[],chang:10,citat:[],classic:3,cleaner:10,climat:10,code:11,concept:4,content:[5,8,11],cours:5,databas:3,definit:4,develop:4,diagnosi:10,diagram:3,direct:[],discuss:[4,10],drive:10,driver:4,earth:10,electr:10,excercis:[4,6],execut:[],fake:10,file:[],from:[],goal:[4,8],graph:3,hierarch:4,histor:4,histori:4,humankind:4,humanoid:10,imag:2,implement:[7,8],ingredi:4,intellig:[4,7],introduct:[1,8],jupyt:[],kei:4,knowledg:3,lanmow:[],lawnmow:10,learn:[3,4,8,9],librari:[0,9],logic:3,machin:9,manifest:10,markdown:11,materi:8,medic:10,method:[3,4],model:4,more:3,myst:11,myth:4,name:[],network:10,notebook:11,observ:10,opportun:[],output:11,point:[4,10],potenti:10,propabl:3,question:[],read:3,reflex:4,represent:3,robot:10,role:[],scientif:4,search:3,self:10,simpl:[4,7],some:10,spot:10,tackl:10,taulu1:[],techniqu:[],tool:1,util:4,vacuum:10,what:[],your:[]}})

diff --git a/concepts.html b/concepts.html
@@ -404,6 +404,10 @@ and consider, how did Deckard studied if Rachel is a replicant or a human? Why i
 <p class="admonition-title">Discussion point</p>
 <p>Can an intelligent agent be meaningful without perception or actuator or neither?</p>
 </div>
+<div class="admonition-discussion-point admonition">
+<p class="admonition-title">Discussion point</p>
+<p>If two rational agents both maximize their performance measure based on their perceptions and build in information, can one be better than another?</p>
+</div>
 <p>Intelligent agents can be divided in four classes based on their cognitive abilities and level of sophistication:</p>
 <ol class="simple">
 <li><p>Simple reflex agents</p></li>
@@ -467,14 +471,14 @@ and consider, how did Deckard studied if Rachel is a replicant or a human? Why i
 <p>In contrast to programmed AI, the learning AI learns the rules behind the actions without explicit programming. The benefits are that the agent can operated in and environment, which is initially unknown. In a long time it can also learn rules which would be very complex to program.</p>
 <p>The structure of the learning agent is consisted of the following four components</p>
 <ol class="simple">
-<li><p>Learning element:</p></li>
-<li><p>Performance element</p></li>
-<li><p>Critic</p></li>
-<li><p>Problem generator</p></li>
+<li><p><em>Performance element</em> receives perceptions from the sensors and carries out actions by using actuators. This element includes the operations of the previously described agents, but here it also exhanges information with the learning element and receives suggestions from the problem generator.</p></li>
+<li><p><em>Critic element</em> observes the perceptions and uses the performance standard to assess how well the agent is performing and provides that information to the learning element.</p></li>
+<li><p><em>Learning element</em> is responsible on making improvements on the performance element according to the feedback received from the citic element.</p></li>
+<li><p><em>Problem generator</em> suggests actions leading to new and informative experiences to explore the world to find even better solutions in the long run.</p></li>
 </ol>
 <div class="figure align-center" id="fig-learningagent">
 <a class="reference internal image-reference" href="_images/learning_agents.png"><img alt="_images/learning_agents.png" src="_images/learning_agents.png" style="width: 500px;" /></a>
-<p class="caption"><span class="caption-number">Fig. 6 </span><span class="caption-text">The utility agents extend the goal and model based agents by also considering the utility what is gained by reaching the goal through different action sequences.</span><a class="headerlink" href="#fig-learningagent" title="Permalink to this image">¶</a></p>
+<p class="caption"><span class="caption-number">Fig. 6 </span><span class="caption-text">The learning agents extend the previous agents by adding a critic, learning and problem generator elements. The critic element provides feedback to the learning element, which updates the performance element. The learning element sets new learning goals to the problem generator, which suggest new exploratory actions to the performance element to explore unknown ares of the world.</span><a class="headerlink" href="#fig-learningagent" title="Permalink to this image">¶</a></p>
 </div>
 </div>
 <div class="section" id="hierarchical-agents">

diff --git a/_sources/concepts.md b/_sources/concepts.md
@@ -122,6 +122,11 @@ A rational agent is an agent which always selects an action that is expected to 
 ```{admonition} Discussion point
 Can an intelligent agent be meaningful without perception or actuator or neither?
 ```
+
+```{admonition} Discussion point
+If two rational agents both maximize their performance measure based on their perceptions and build in information, can one be better than another?
+```
+
 Intelligent agents can be divided in four classes based on their cognitive abilities and level of sophistication:
 
 1. Simple reflex agents
@@ -218,10 +223,10 @@ In contrast to programmed AI, the learning AI learns the rules behind the action
 
 The structure of the learning agent is consisted of the following four components
 
-1. Learning element:
-1. Performance element
-1. Critic
-1. Problem generator
+1. *Performance element* receives perceptions from the sensors and carries out actions by using actuators. This element includes the operations of the previously described agents, but here it also exhanges information with the learning element and receives suggestions from the problem generator.
+1. *Critic element* observes the perceptions and uses the performance standard to assess how well the agent is performing and provides that information to the learning element. 
+1. *Learning element* is responsible on making improvements on the performance element according to the feedback received from the citic element.
+1. *Problem generator* suggests actions leading to new and informative experiences to explore the world to find even better solutions in the long run.
 
 
 ```{figure} figures/learning_agents.png
@@ -231,7 +236,7 @@ align: center
 name: fig:learningagent
 ---
 
-The utility agents extend the goal and model based agents by also considering the utility what is gained by reaching the goal through different action sequences.
+The learning agents extend the previous agents by adding a critic, learning and problem generator elements. The critic element provides feedback to the learning element, which updates the performance element. The learning element sets new learning goals to the problem generator, which suggest new exploratory actions to the performance element to explore unknown ares of the world.
 ```
 
 ### Hierarchical Agents
